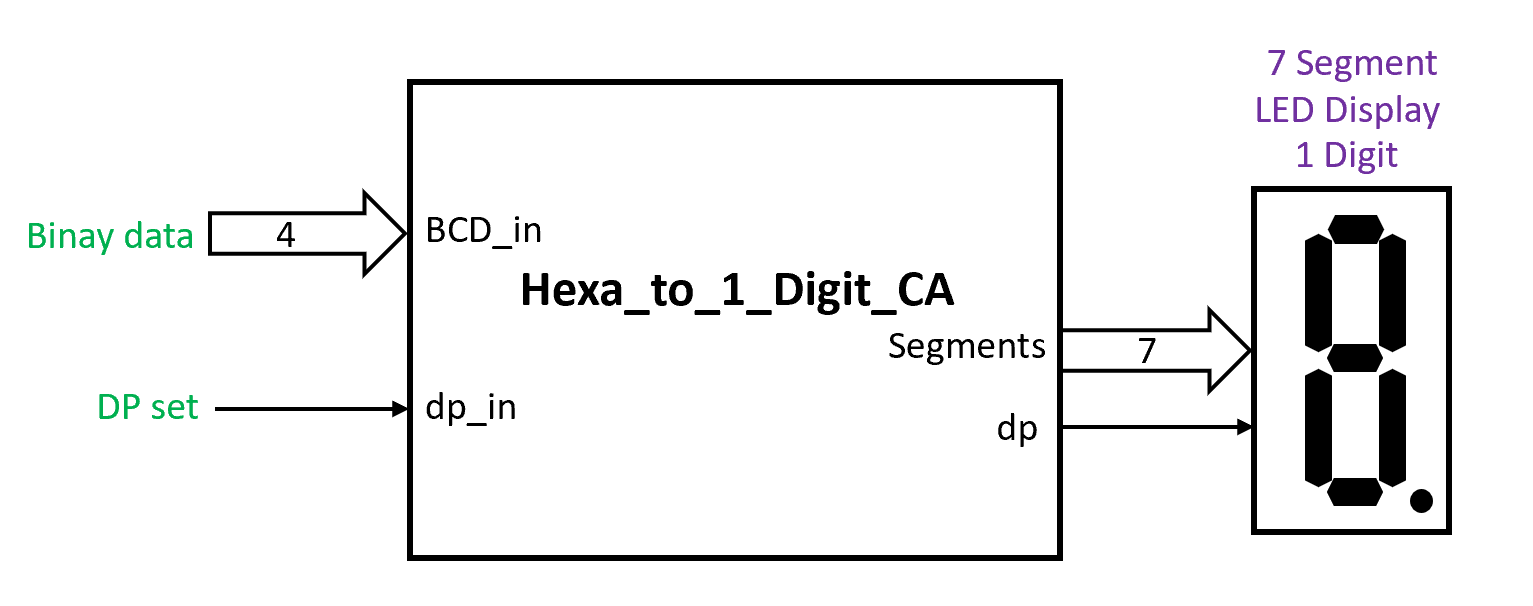
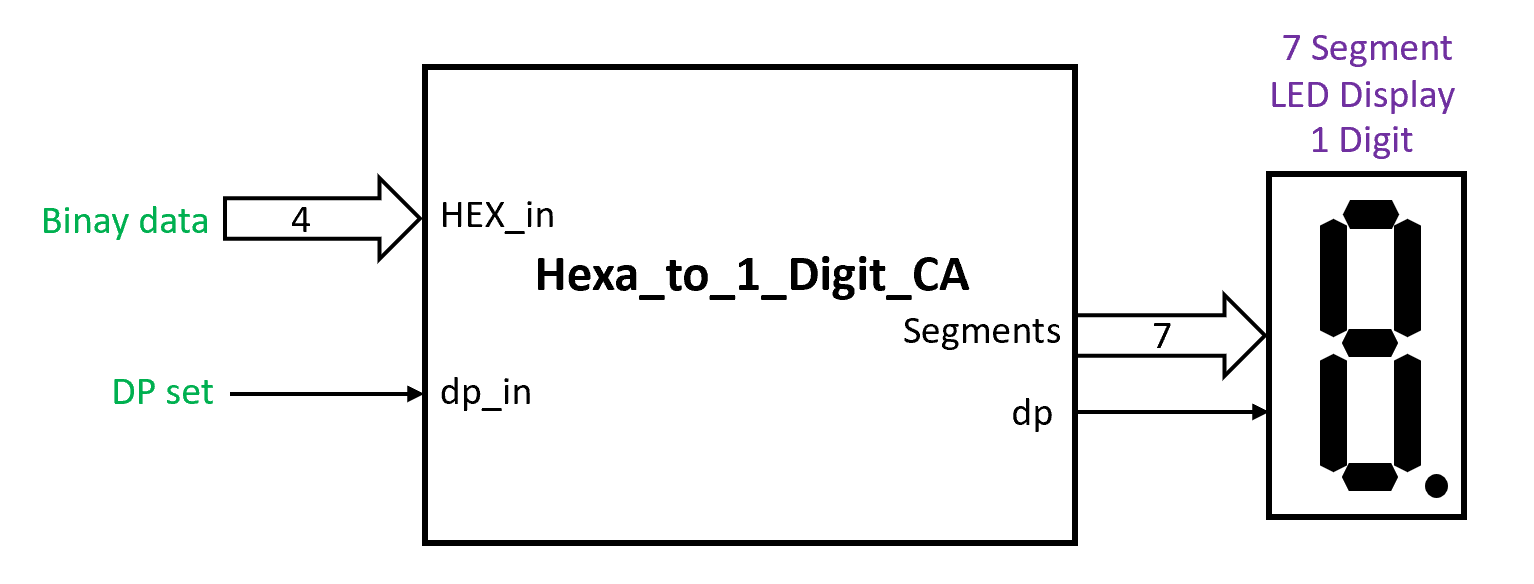
new file:   1_ Digit_Displa_CA/HEX_to_1_Digit_CA.vhd

Changed region(s): [[0.0, 0.0616, 0.9811, 0.9555], [0.0613, 0.6473, 0.1533, 0.7089]]

diff --git a/1_ Digit_Displa_CA/README_1.md b/1_ Digit_Displa_CA/README_1.md
@@ -182,3 +182,15 @@ Seg0 to Seg6 represent the Segment command, which corresponds to segments a to g
 The module implemented in the FPGA is shown in Figure 10 and consists of a 7-Segment hexadecimal decoder.
 
 ![ Figure 10 ](/Pictures/Figure10.png)
+
+The module has:
+- 4 input pins for data where the BCD code is presented = HEX_in;
+- 1 input pin for control of the Decimal Point = DP_in;
+- 7 output pins for controlling segments a to g of the 7 Segment display = Segments;
+- 1 output pin for controlling the Decimal Point of the 7 Segment display = dp;
+- 1 output pin for controlling SEL5 or SEL7 in the case of embedded displays = SEL7.
+
+The source code for the FPGA program written in VHDL is as follows:
+
+https://github.com/LincaMarius/FPGA_7_Segment_Display_Driver/blob/main/1_%20Digit_Displa_CA/HEX_to_1_Digit_CA.vhd
+
